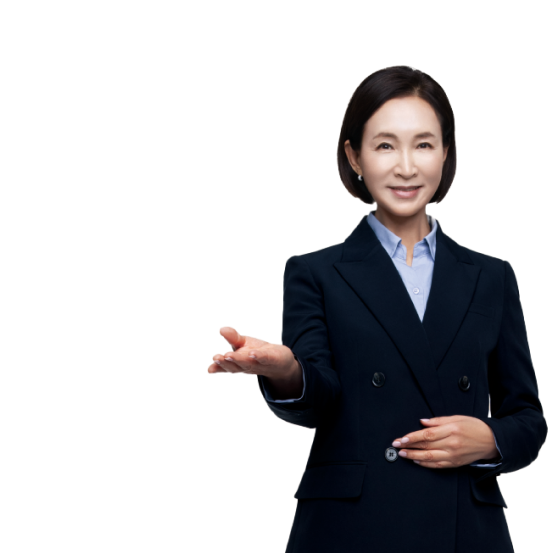
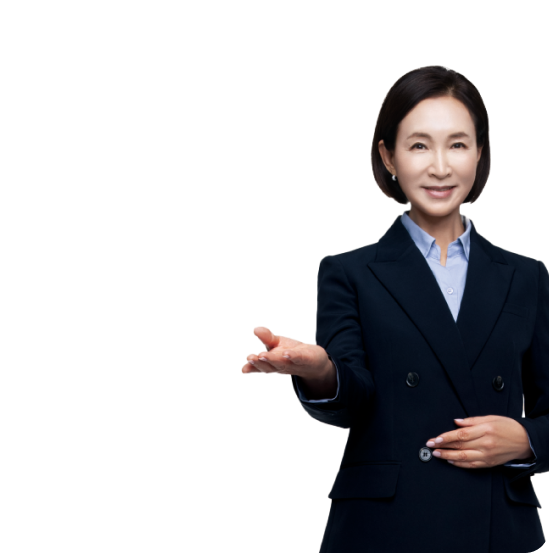
수정 메인 위치 영역

diff --git a/html/main.html b/html/main.html
@@ -167,7 +167,8 @@
 													</div>
 												</div>
 												<div class="slide-img">
-													<img src="/type/www/images/main/mainvisual_img01.png?ver=5.5" alt="채무조정 - 삶이 무너졌을 때 다시 일어설 수 있도록 함께" class="slide-img1">
+													<!-- <img src="/type/www/images/main/mainvisual_img01.png?ver=5.5" alt="채무조정 - 삶이 무너졌을 때 다시 일어설 수 있도록 함께" class="slide-img1"> -->
+													<img src="/type/www/images/img/bg-photo-ari01.png" alt="채무조정 - 삶이 무너졌을 때 다시 일어설 수 있도록 함께" class="slide-img1">
 												</div>
 											</a><!-- <img src="/type/www/images/main/mainvisual_01.png?ver=5.5" alt="재무조정 삶이 무너졌을 때 다시 일어설 수 있도록 함께"> -->
 										</div>
@@ -182,7 +183,8 @@
 													</div>
 												</div>
 												<div class="slide-img">
-													<img src="/type/www/images/main/mainvisual_img02.png?ver=5.5" alt="채무조정 - 삶이 무너졌을 때 다시 일어설 수 있도록 함께" class="slide-img2">
+													<!-- <img src="/type/www/images/main/mainvisual_img02.png?ver=5.5" alt="채무조정 - 삶이 무너졌을 때 다시 일어설 수 있도록 함께" class="slide-img2"> -->
+													<img src="/type/www/images/img/bg-photo-ari02.png?ver=5.5" alt="채무조정 - 삶이 무너졌을 때 다시 일어설 수 있도록 함께" class="slide-img2">
 												</div>
 												<!-- <img src="/type/www/images/main/mainvisual_01.png?ver=5.5" alt="재무조정 삶이 무너졌을 때 다시 일어설 수 있도록 함께"> -->
 											</a>
@@ -198,7 +200,8 @@
 													</div>
 												</div>
 												<div class="slide-img">
-													<img src="/type/www/images/main/mainvisual_img03.png?ver=5.5" alt="채무조정 - 삶이 무너졌을 때 다시 일어설 수 있도록 함께" class="slide-img3">
+													<!-- <img src="/type/www/images/main/mainvisual_img03.png?ver=5.5" alt="채무조정 - 삶이 무너졌을 때 다시 일어설 수 있도록 함께" class="slide-img3"> -->
+													<img src="/type/www/images/img/bg-photo-ari03.png" alt="채무조정 - 삶이 무너졌을 때 다시 일어설 수 있도록 함께" class="slide-img3">
 												</div>
 												<!-- <img src="/type/www/images/main/mainvisual_01.png?ver=5.5" alt="재무조정 삶이 무너졌을 때 다시 일어설 수 있도록 함께"> -->
 											</a>

diff --git a/type/www/css/main.css b/type/www/css/main.css
@@ -2820,25 +2820,35 @@ body:has(.intro.show) {
   position: absolute;
   bottom: 0;
   right: 0;
+  display: flex;
+  align-items: flex-end;
+  justify-content: flex-end;
 }
 .grid-col1 .slide-img img {
-  height: 43rem;
+  /* height: 43rem; */
   -webkit-transform: translateY(3rem);
           transform: translateY(3rem);
   -webkit-transition: all 0.8s ease 0.3s;
   transition: all 0.8s ease 0.3s;
+  width: auto;
+  object-fit: contain;
 }
 @media (max-width: 1400px) {
   .grid-col1 .slide-img img {
-    height: 30rem;
+    height: auto;
+    width: auto;
   }
   .grid-col1 .slide-txt .tit {
     margin-top: 0;
   }
 }
 @media (max-width: 767px) {
+  .grid-col1 .slide-img {
+    height: 100%;
+  }
   .grid-col1 .slide-img img {
-    height: 28.5rem;
+    /* height: 28.5rem; */
+    height: 100%;
   }
 }
 .grid-col1 .swiper-slide-active .slide-img img {
